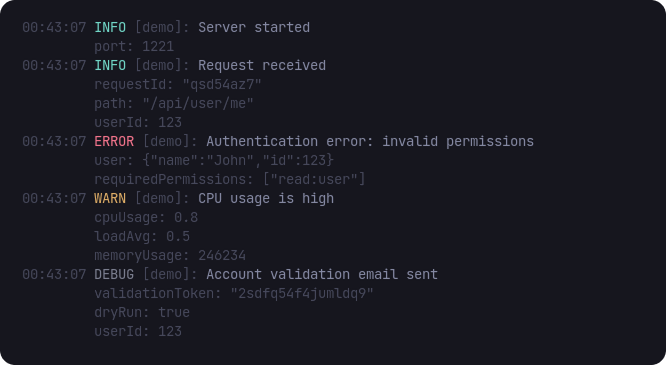
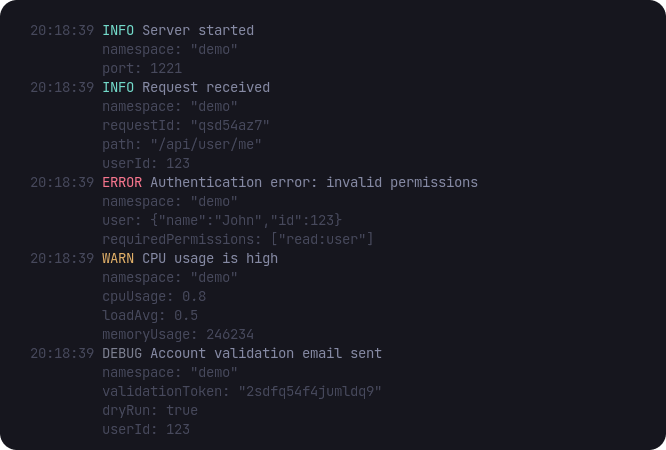
refactor(pretty): namespace in data attributes (#9)

diff --git a/packages/pretty/src/formatter.ts b/packages/pretty/src/formatter.ts
@@ -42,13 +42,19 @@ export function formatPrettyLog({ log, locale, colorFormatters = pc }: { log: Lo
   const firstLine = [
     colorFormatters.dim(timestamp),
     color(level.toUpperCase()),
-    colorFormatters.dim(`[${namespace}]:`),
     message,
   ].join(' ');
 
   const lines = [
     firstLine,
-    ...formatDataLines({ data, leftPadding: timestamp.length + 1, colorFormatters }),
+    ...formatDataLines({
+      data: {
+        namespace,
+        ...data,
+      },
+      leftPadding: timestamp.length + 1,
+      colorFormatters,
+    }),
   ];
 
   return lines.join('\n');

diff --git a/packages/pretty/src/formatter.test.ts b/packages/pretty/src/formatter.test.ts
@@ -100,7 +100,8 @@ describe('formatter', () => {
         locale: 'fr-FR',
         colorFormatters: dummyColorFormatter,
       })).to.equal(`
-06:56:07 INFO [my-namespace]: Hello, world!
+06:56:07 INFO Hello, world!
+         namespace: "my-namespace"
          foo: "bar"
          baz: 123
       `.trim());
